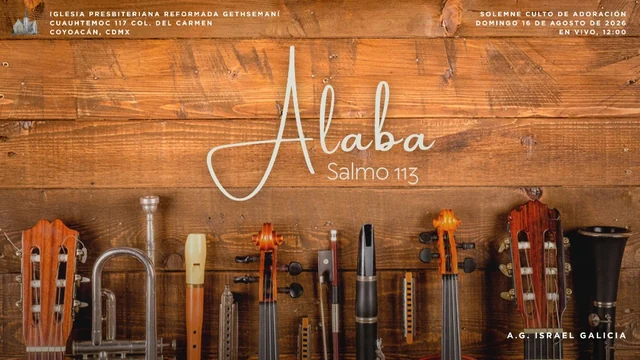
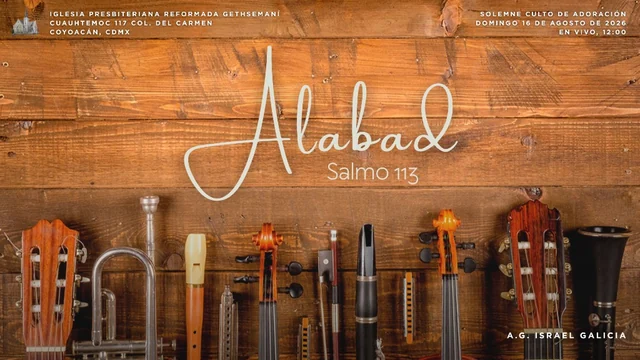
Actualiza la imagen de la predicación del 16 de agosto.

Changed region(s): [[0.2812, 0.1222, 0.7188, 0.5806], [0.9062, 0.0306, 0.9375, 0.0917], [0.7812, 0.0306, 0.8125, 0.0611]]

diff --git a/src/content/service-orders/2026-08-16-culto-12.md b/src/content/service-orders/2026-08-16-culto-12.md
@@ -7,7 +7,7 @@ theme: Aniversario X del Ensamble Musical “Selah”
 sermonTitle: ¡Alabad!
 sermonPassage: Salmo 113
 sermonImage: /images/sermons/alaba-salmo-113.jpg
-sermonImageAlt: Instrumentos musicales sobre madera rústica con el título Alaba, Salmo 113
+sermonImageAlt: Instrumentos musicales sobre madera rústica con el título Alabad, Salmo 113
 preacher: A.G. Israel Galicia Reyes
 published: true
 elements:
